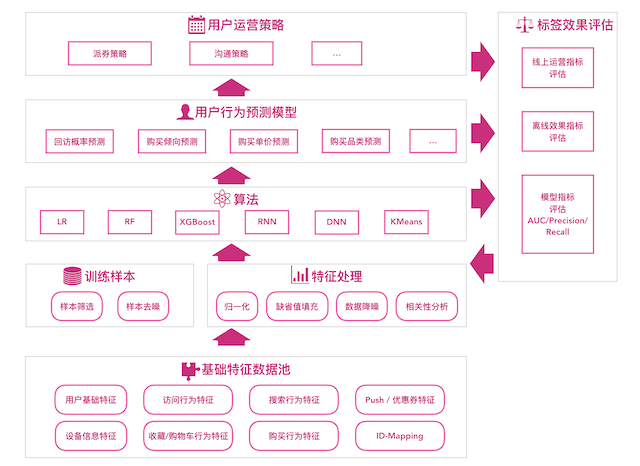
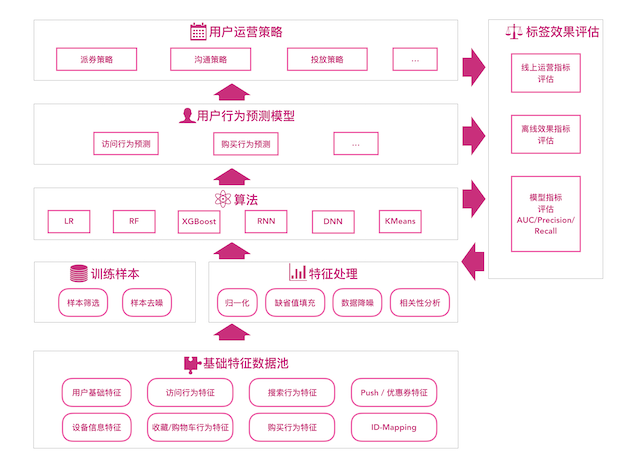
update post

diff --git a/_posts/2018-11-07-user-profile-tagging-system.md b/_posts/2018-11-07-user-profile-tagging-system.md
@@ -1,0 +1,120 @@
+---
+layout: post
+title: "电商用户标签服务系统建设及演进"
+description: "电商背景下的用户标签服务系统建设及演进过程详解"
+category: user-profile
+tags: [user-profile]
+---
+
+随着电商平台的体量越来越大，用户个性化运营的诉求也越来越突出，用户标签系统，做为个性化千人千面运营的基础服务，应运而生。唯品会的用户标签系统，目前已全面服务于唯品会的各种个性化运营场景，包括站外广告定向人群投放，站内个性化运营玩法，用户触达个性化沟通，提供包括用户的基础人口属性标签，设备属性标签，用户兴趣标签，用户行为标签，以及用户的会员属性标签等，为公司的千人千面策略提供最基础的数据服务。
+
+用户标签系统搭建的初期，主要还是依靠运营同学的人工经验实现基于规则圈人群运营，之后随着不断提升运营的效率，系统逐步转变成为运营赋能的用户标签数据平台，不仅仅提供用户标签数据，还包括用户画像分析服务，辅助业务运营进行人群洞察分析，以及通过算法能力，帮助业务方优化运营策略，实现策略的效果最大化。整个演进的过程围绕着业务的诉求不断升级，可分为三个阶段，本文将逐一进行介绍。
+
+### 用户标签服务的0-1
+
+其实在用户标签服务这个系统诞生之前，公司存在多个提供用户标签数据的系统，有些标签是由A系统提供，有些由B系统提供，同时根据数据最终提供的形式的不同，又分别存在以人群包为维度提供离线批量获取用户的系统以及将人群包标签化打到用户上，提供以用户为维度的在线标签查询的系统。因此，用户标签服务系统的搭建，一方面是整合管理散乱在各处的用户标签数据，另一方面也是对用户标签业务的统一管理。
+
+系统建设的初期，业务诉求主要集中在基于已经存在的用户基础标签之上，根据业务经验总结出的各类规则进行圈人群，从而达到精准营销的目的。比如针对华南区的用户做一次美妆活动，业务要找出最近一个月有收藏过美妆品类商品或者最近一个月有浏览过美妆品类商品的华南区女性用户，对她们进行精准触达召回营销，同时在站内也会针对这群用户投入相应的广告位来吸引她们。
+
+围绕业务的需求场景，用户标签系统初期的建设主要围绕：
+
+* 用户基础标签清洗和加工
+* 业务运营标签规则计算
+* 标签存储
+* 标签查询
+
+系统整体架构如下：
+
+![Architecture Overview](https://raw.githubusercontent.com/Neway6655/neway6655.github.com/master/images/user-profile-system/Architecture_overview.png)
+
+##### 用户基础标签清洗加工
+
+根据不同的场景需求以及数据本身的时效性特点，目前基础标签的清洗加工分为离线和实时两套处理方式。离线处理主要通过Hive/Spark以天为单位进行数据清洗和加工；实时处理则通过Kafka接入业务实时数据源，再由Storm流式处理，实时清洗和加工。
+
+##### 业务圈人标签规则计算
+
+基于用户的基础标签，业务方从运营的角度可筛选各类日常运营的人群标签，例如最近一周有浏览Nike运动鞋但没有购买的人，有这样行为的人，可认为是近期对Nike运动鞋非常感兴趣的人群，给他们打上标签后，便能针对这群人进行精准触达沟通和站内外的广告投放了。
+
+标签规则计算大部分是通过离线（以天为单位）计算完成，借助一套标签规则的解析引擎，将标签规则转化为数据层面的计算逻辑，完成计算后得到该标签对应人群，同时系统提供一套灵活的基础标签配置管理，在基础标签数据开发完成后，通过配置便可快速完成该标签的上线工作。
+
+为了保证标签数据的准确性，系统提供了一套简单有效的数据质量检查机制，例如通过对比圈选的人群最近几天的人数变化情况，对有人数突变的人群及时告警，再通过人工的介入进行二次排查，可及时发现至少80%的数据质量问题。同时，为了减低数据问题对业务的影响，系统保留了最近1-2天的数据版本，在当前数据版本出现问题时，可快速回退至之前的数据版本，降级提供前天（有损）的数据。
+
+##### 标签存储及查询
+
+通过标签规则计算的标签结果，最终以用户ID List的形式存储在Hive表里，鉴于公司用户规模比较庞大，最终一个标签的用户数量往往有百万级，多的甚至达到千万级。为了提供稳定快速的人群取数服务，系统内部会先将标签结果拉取到Redis，最终查询接口通过Redis里的标签数据提供查询服务。
+
+标签查询服务从业务使用的方式上可划分为两类：A）以标签为维度，将符合该标签的所有用户都取出来，业务使用方式以批量发送Push/短信为主；B）以用户为维度，查询该用户身上是否符合某个标签或多个标签，业务使用方式包括广告定向投放，站内个性化运营等。A是离线批量查询，B是在线实时查询，在标签存储上对这两类以不同的形式分开存储。
+
+首先，将Hive表中的标签结果用户ID List数据同步到Redis中，也是以*List*的形式存储，为了避免产生Redis的大Key，以及提高数据同步的并行度，这里的*List*是逻辑上的，实际存储时则是以一段段的小*List*拼接而成，同时，为了节省Redis的存储空间，将多个User的ID拼接作为List的一个element：
+
+![User List Storage](https://raw.githubusercontent.com/Neway6655/neway6655.github.com/master/images/user-profile-system/user_list.png)
+
+另外，为了提供用户维度的标签查询，需要对用户打标签，在上面的生产的Redis List数据中，对拥有该标签的每个user进行遍历，以用户id为key，标签id为field，标签值（符合/不符合该标签）为value构造Redis的hash结构，一个hash存储一个用户身上的所有标签。对用户标签的查询，采用Redis针对hash结构的hmget操作即可获取某个用户的一个或多个标签的值。
+
+上面说了标签存储和如何进行查询，那么标签数据的更新是怎样的呢？对于业务会经常使用的标签，数据是保持每天更新的，但往往变化的差异是比较小，因此为了提升用户打标签的速度，在同步标签结果时，系统会生成多一份该标签的用户id bitset，通过和昨天的数据bitset进行差集比较，可快速标识出每天变化的用户，进行增量打标，可大幅提高打标速度。
+
+最后，在数据可靠性上，对极其重要的业务所用到的标签数据，数据的可靠性要求非常高，使用Redis作为存储的方案存在一定的风险，因此，针对这部分重要标签，同时会有一套MySQL的存储，当Redis出现问题时，可快速回源到MySQL进行标签的查询。在MySQL的表结构设计上，没有采用以用户id为主键的方式，主要是考虑到数据的更新是以标签为维度，对用户进行批量更新，而一个用户也可能同时存在多个标签中，以用户id为主键会导致数据的更新逻辑复杂，无法对用户批量更新，数据更新速度慢；因此，同时考虑到数据更新的问题和标签查询的性能，最终采用以标签id为主键，沿用上面bitset的思路，将该标签的用户id构成的逻辑上的一个大bitset，按照顺序等长拆分为多个bitset_segment：
+
+![User List Storage](https://raw.githubusercontent.com/Neway6655/neway6655.github.com/master/images/user-profile-system/user_tag_segments.png)
+
+
+
+假设bitset的总长度有5亿，就代表最多可以表示5亿用户，例如上图中，符合标签A的有u2，u871，u3188等，根据每个用户的序号，可以计算出每个用户所属的bit index，在标签A的bitset中对应位置index设为1，这是逻辑上的bitset，实际存储时会将bitset按顺序拆分成多个bitset segments，假设有50个segments，那么每个segment就1千万个bit，而每个用户所属的segment index以及segment中的bit index也是可以由用户的序号计算出来的，这样对用户标签的查询操作，更新操作，都转为标签id+segment_id进行操作。
+
+### 用户标签服务2.0 -- 用户画像分析引擎
+
+在满足用户个性化标签运营需求后，为了帮助业务方高效的进行个性化人群标签的筛选，系统提供了一套用户画像分析引擎--**天眼**，借助天眼强大的分析能力，可实时地查看标签筛选人群结果的画像构成：包括人群数量规模；人群的基本用户信息，例如性别/年龄/地域/会员等级分布等；用户行为信息，例如购买品牌品类分布，访问频次，深度，时段等；以及人群维度的一些运营指标，例如最近UV，转化率等。这样业务方可快速调整筛选人群的条件规则，找出认为适合的人群。
+
+这是2.0的系统整体架构图：
+
+![Architecture Overview 2.0](https://raw.githubusercontent.com/Neway6655/neway6655.github.com/master/images/user-profile-system/Architecture_overview_v2.png)
+
+为了能实时并且准确的提供用户画像分析能力，系统采用**Elasticsearch**（ES）作为分析引擎，利用其快速的查询性能和数据聚合能力，可**实现秒级完成各种复杂的条件组合和数据聚合运算**。另外，由于用户的数据规模庞大，考虑到ES索引存储以及数据更新的压力，放入到ES的索引数据为抽样的用户数据，在满足数据准确性的同时，尽量降低ES的压力。
+
+##### 索引数据结构设计
+
+一个用户对应一个doc，用户的标签信息是doc fields，简单的标签例如性别，年龄，直接使用普通的fields即可；一些复杂的标签信息，例如用户对品牌A的最近一个月浏览次数这类，属于用户和品牌一对多的动态标签信息，需要采用nested fields，一个简单的示例结构如下：
+
+``` json
+{
+  //normal fields
+  "basic_info": {
+    "age": 20,
+    "gender": "female"
+  },
+  //nested fields
+  "brand_info": [
+    {
+      "brand_id": "123456",
+      "brand_last_purchase_date": "2018-01-01",
+      "brand_30d_visit_cnt": 10
+    },
+    {
+      "brand_id": "67890",
+      "brand_last_purchase_date": "2018-01-05",
+      "brand_30d_visit_cnt": 16
+    }
+  ]
+}
+```
+
+##### 用户标签抽样表设计
+
+采用id取模的方式对用户进行抽样，可确保每次抽样的用户基本固定。同时，抽样用户的标签信息由多张Hive表存储，例如基础信息表，品牌行为信息表，品类行为信息表等，有的是和用户成1:1 关系，有的是和用户成1:n关系的，例如品牌行为信息表。在处理这些表的数据时，也会做一些小优化，例如时间类型的统一采用日期形式，这样可以节省ES的存储空间。
+
+##### 索引数据更新机制
+
+抽样的用户标签数据在Hive表中完成更新后，需要再同步到ES中，数据刷新的机制经历过多次的优化迭代，一开始通过Hive表中的数据为每个抽样用户构造完整的用户json数据，再通过一个Job将ES中的数据进行全量更新，更新过程中发现更新认为的Job应用cpu非常高，主要原因是每个用户的json数据特别大，而且很复杂，在将Hive的数据序列化成一个大json时CPU消耗非常大；后来逐步优化，将全量更新调整为用户级别增量更新，并且由原来的完整json改为仅对有变化的fields按Hive表拆分各个不同fields group构造json，分批部分更新，采用小步快跑的方式完成索引数据的更新。
+
+### 用户标签服务3.0 -- 智选标签
+
+回顾系统在1.0和2.0两个阶段，都是围绕业务根据经验筛选人群，建立标签而建设的，而业务的最终诉求，是要找出符合某些运营场景的人群，并结合运营策略实现目标的最大化。例如前面例子中描述的“最近一周有浏览Nike运动鞋但没有购买的人”，背后的需求其实是找出“最近对Nike运动鞋有购买倾向的人”，放入到对应的广告/Push等运营活动中，达成活动的运营目标，比如转化率达到多少，至于如何找出最近有购买倾向的人呢？根据**业务经验**，认为“最近一周有浏览过但又没有购买的人”是一个潜在的购买客群，但并不一定是最精准的人群，在现在这样一个智能时代，运用数据的积累，算法的挖掘，借助**机器学习建立模型**，能找出更合适的人群，满足运营目标的最大化需求，这就是3.0的智选标签服务。
+
+3.0的标签模型框架：
+
+![Architecture Overview 3.0](https://raw.githubusercontent.com/Neway6655/neway6655.github.com/master/images/user-profile-system/user_profile_model_overview.png)
+
+* 用户特征池：为标签模型构造用户全方位的特征数据，包括用户基础信息特征，用户设备信息特征，用户访问/搜索/购买等行为特征，以及用户品牌/品类行为特征等。
+* 用户行为预测模型：基于Spark ML的机器学习模型和Tensorflow的深度学习模型，构建用户基础行为预测模型。
+* 用户运营策略：运营策略的目标考虑因素比较多，现阶段主要以人工+模型的方式制定运营策略。
+* 效果评估：包括模型层面的评估指标，以及模型应用场景下的业务指标，离线验证模型的有效性，再结合运营策略通过线上ABTest进行验证最终运营效果。
